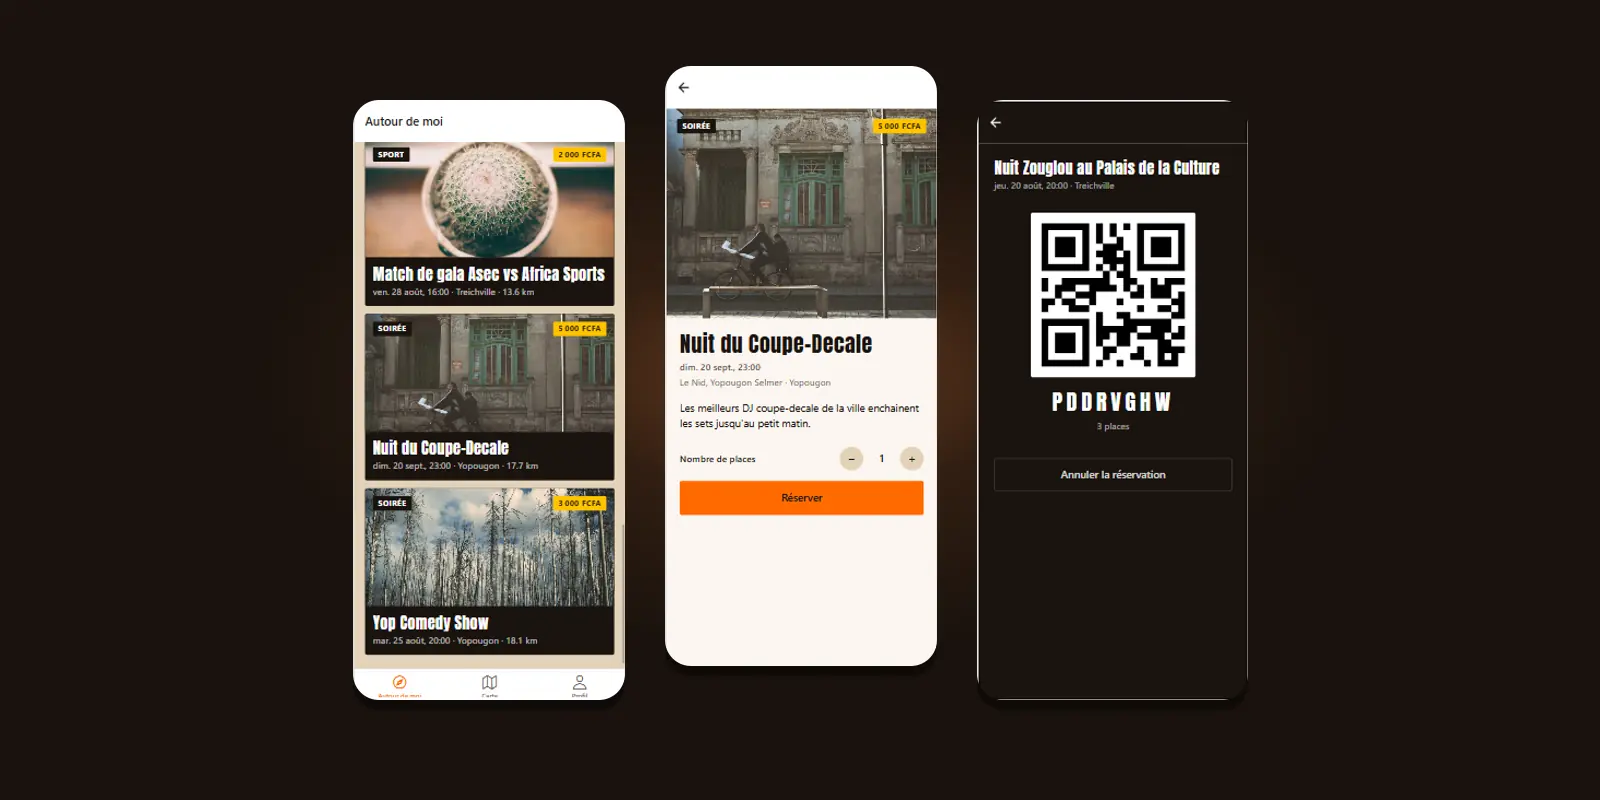
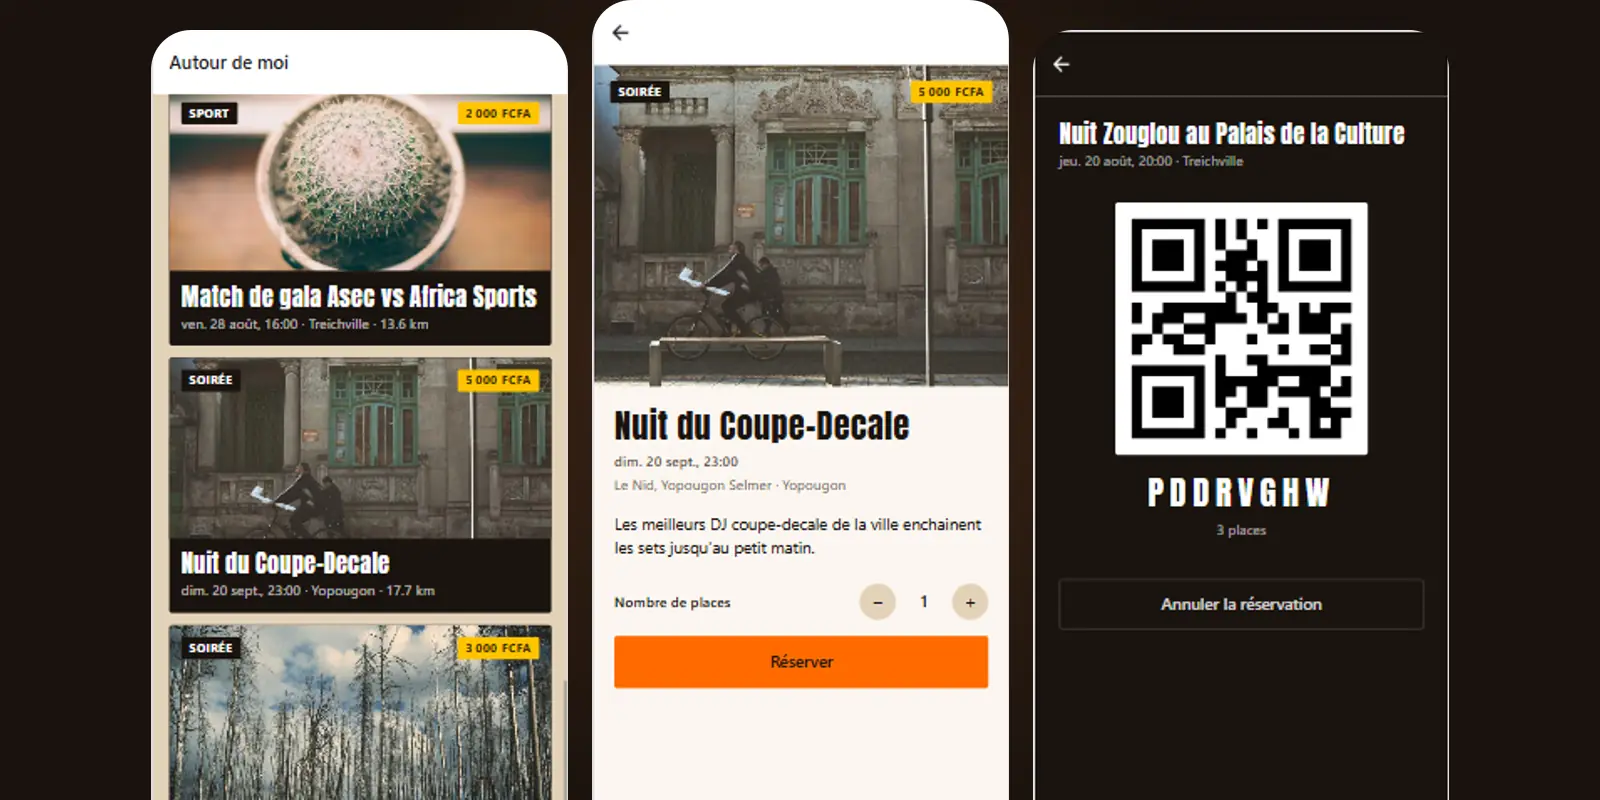
fix: distingue les liens App mobile/API, recadre la vignette Alentour et passe la grille projets à 2 colonnes
Les deux liens "Code source" d'Alentour portaient le même libellé,
impossible de savoir lequel menait où : links.code devient
{ mobile, api } avec des libellés dédiés.

La vignette recadrait le haut des écrans (perte de contexte) et
laissait le bas intact ; inversé pour garder les en-têtes visibles.

Avec 4 projets, 3 colonnes laissaient une carte seule en deuxième
ligne et des vignettes trop petites pour être lisibles ; passage à
2 colonnes en desktop et correction du hint `sizes` des images en
conséquence.

diff --git a/components/ProjectLinks.tsx b/components/ProjectLinks.tsx
@@ -17,24 +17,28 @@ export default function ProjectLinks({
   className = "",
 }: {
   links: Links;
-  labels: { demo: string; api: string; code: string };
+  labels: {
+    demo: string;
+    api: string;
+    code: string;
+    codeMobile: string;
+    codeApi: string;
+  };
   variant: keyof typeof STYLES;
   className?: string;
 }) {
-  const codeLinks = Array.isArray(links.code)
-    ? links.code
-    : links.code
-      ? [links.code]
-      : [];
+  const codeEntries =
+    typeof links.code === "string"
+      ? [{ href: links.code, label: labels.code }]
+      : [
+          { href: links.code?.mobile, label: labels.codeMobile },
+          { href: links.code?.api, label: labels.codeApi },
+        ];
 
   const entries = [
     { href: links.demo, label: labels.demo, Icon: IconExternalLink },
     { href: links.api, label: labels.api, Icon: IconFileText },
-    ...codeLinks.map((href) => ({
-      href,
-      label: labels.code,
-      Icon: IconBrandGithub,
-    })),
+    ...codeEntries.map((entry) => ({ ...entry, Icon: IconBrandGithub })),
   ].filter((entry): entry is { href: string; label: string; Icon: typeof IconBrandGithub } => !!entry.href);
 
   if (entries.length === 0) return null;

diff --git a/data/projects.ts b/data/projects.ts
@@ -13,8 +13,8 @@ export type StatusTone = "progress" | "done" | "study";
 export interface ProjectLinks {
   demo?: string;
   api?: string;
-  /** Un ou plusieurs dépôts (ex. application mobile + API séparées). */
-  code?: string | string[];
+  /** Un seul dépôt (libellé générique "Code source") ou plusieurs dépôts nommés. */
+  code?: string | { mobile?: string; api?: string };
 }
 
 export interface ProjectCredential {
@@ -82,10 +82,10 @@ export const PROJECTS: ProjectMeta[] = [
     shots: ["/images/alentour-hero.webp"],
     monogram: "ALT",
     links: {
-      code: [
-        "https://github.com/Komoe-ctrl/Events",
-        "https://github.com/Komoe-ctrl/Events-api",
-      ],
+      code: {
+        mobile: "https://github.com/Komoe-ctrl/Events",
+        api: "https://github.com/Komoe-ctrl/Events-api",
+      },
     },
   },
 ];

diff --git a/components/ProjectCard.tsx b/components/ProjectCard.tsx
@@ -5,8 +5,7 @@ import ProjectVisual from "@/components/ProjectVisual";
 import StatusBadge from "@/components/StatusBadge";
 import type { Project, ProjectLabels } from "@/lib/projects";
 
-const CARD_SIZES =
-  "(min-width: 1024px) 30vw, (min-width: 768px) 45vw, calc(100vw - 3rem)";
+const CARD_SIZES = "(min-width: 768px) 45vw, calc(100vw - 3rem)";
 
 export default function ProjectCard({
   project,

diff --git a/lib/projects.ts b/lib/projects.ts
@@ -37,7 +37,13 @@ export interface ProjectLabels {
   backToProjects: string;
   allProjects: string;
   noVisual: string;
-  linksLabels: { demo: string; api: string; code: string };
+  linksLabels: {
+    demo: string;
+    api: string;
+    code: string;
+    codeMobile: string;
+    codeApi: string;
+  };
   sections: {
     features: string;
     roadmap: string;

diff --git a/components/Projects.tsx b/components/Projects.tsx
@@ -36,7 +36,7 @@ export default async function Projects() {
         </p>
       </div>
 
-      <div className="grid gap-6 md:grid-cols-2 md:gap-8 lg:grid-cols-3">
+      <div className="grid gap-6 md:grid-cols-2 md:gap-8">
         {projects.map((project, index) => (
           <SectionReveal
             key={project.meta.slug}
